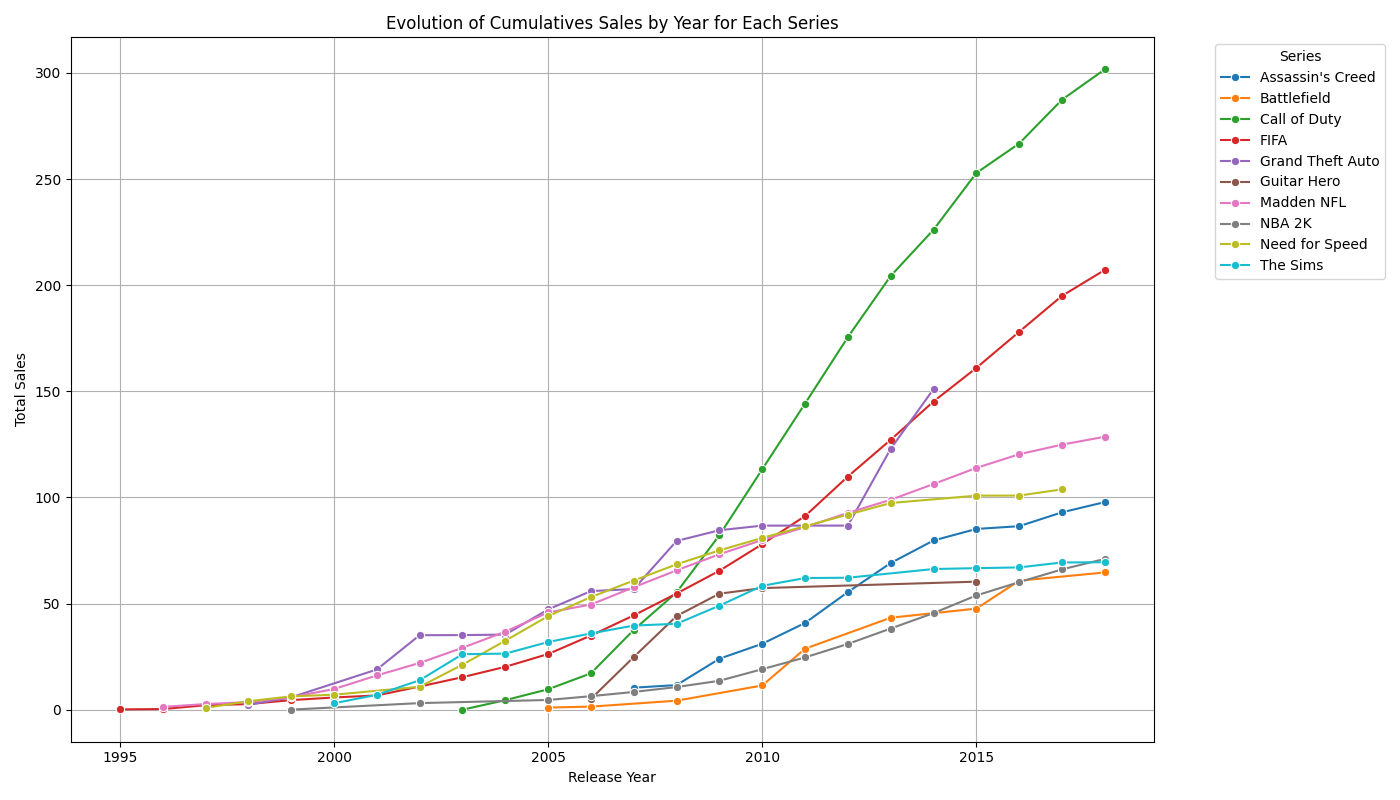
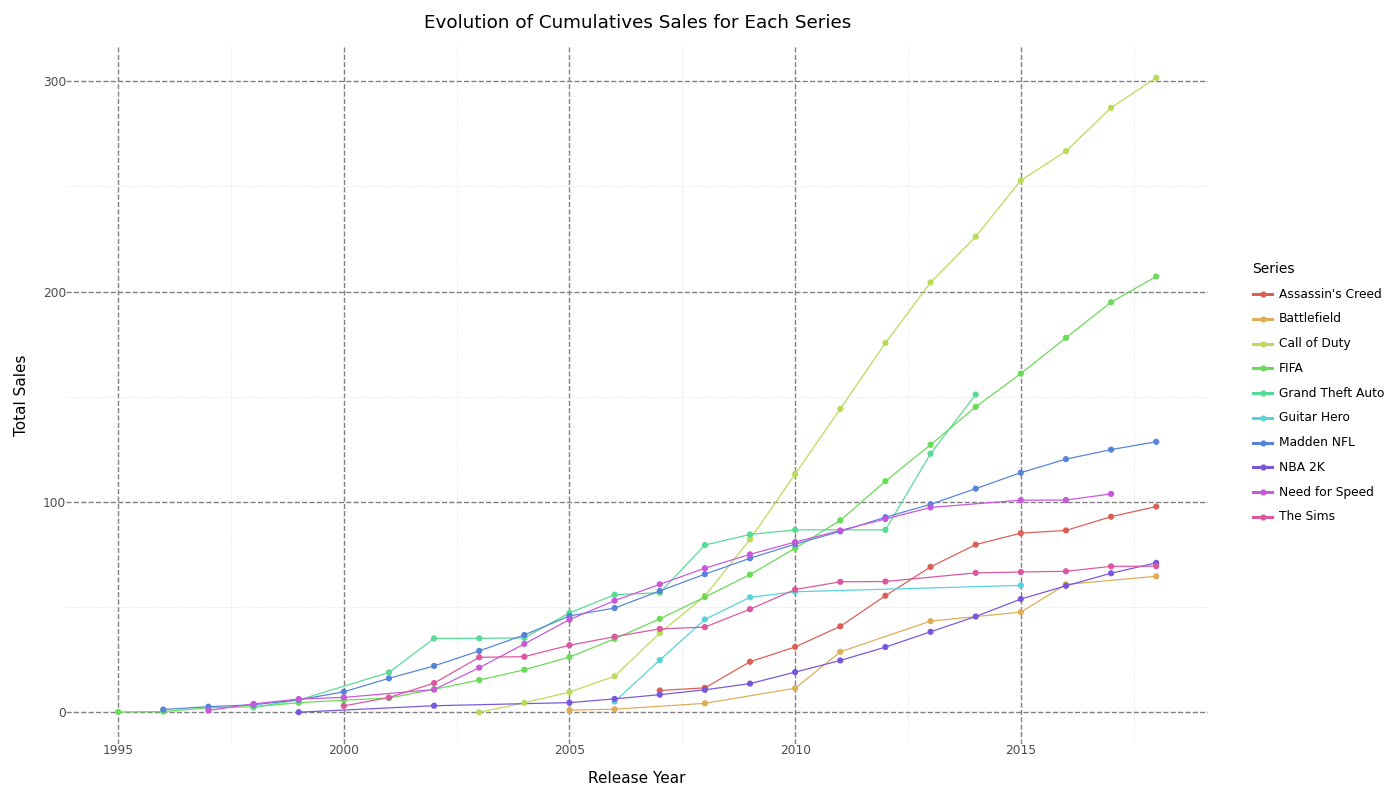
Add console charts. Change matplotlib by plotnine ;)

diff --git a/5_Series.py b/5_Series.py
@@ -1,15 +1,8 @@
-import matplotlib
-
-import matplotlib.pyplot as plt
 import pandas as pd
-import seaborn as sns
-import numpy as np
 import duckdb
+import plotnine as pn
 
 if __name__ == "__main__":
-    # Some settings
-    matplotlib.use('TkAgg')
-
     # Load data
     df = pd.read_feather('./data/working/3_Cleaned_df.output.feather')
     series_df = pd.read_feather('./data/working/3_Series_df.output.feather')
@@ -29,7 +22,7 @@ if __name__ == "__main__":
     # We have a lot of different Series: 349
     len(set(series_sales.Series))
 
-    # Check the Top 20 most saled series over time
+    # Check the Top 10 most saled series over time
     top10_query = """
     SELECT Series
     FROM series_sales
@@ -55,20 +48,23 @@ if __name__ == "__main__":
     """
     top10_series_sales_by_years = duckdb.query(grouping_query).df()
 
-    # Plot evolution of total sales by year for each series
-    plt.figure(figsize=(14, 8))
-    sns.lineplot(data=top10_series_sales_by_years, x='release_year', y='sales_by_years', hue='Series', marker='o')
-
-    # Customize the plot
-    plt.title('Evolution of Total Sales by Year for Each Series')
-    plt.xlabel('Release Year')
-    plt.ylabel('Total Sales')
-    plt.grid(True)
-    plt.legend(title='Series', bbox_to_anchor=(1.05, 1), loc='upper left')
-    plt.tight_layout()
-
-    # Show the plot
-    plt.savefig("./fig/16_Top10_TotalSales_by_year_by_series")
+    # # Plot evolution of total sales by year for each series
+    (pn.ggplot(top10_series_sales_by_years, pn.aes(x='release_year', y='sales_by_years', color='Series'))
+     + pn.geom_line()
+     + pn.geom_point()
+     + pn.labs(title='Evolution of Total Sales by Year for Each Series',
+               x='Release Year',
+               y='Total Sales')
+     + pn.theme_minimal()
+     + pn.theme(figure_size=(14, 8),
+                legend_position='right',
+                legend_title=pn.element_text(size=10),
+                legend_box_margin=0.1,
+                panel_grid_major=pn.element_line(color='gray', linetype='dashed'),
+                panel_grid_minor=pn.element_line(color='lightgray', linetype='dotted'),
+                panel_background=pn.element_rect(color='white'))
+     + pn.guides(color=pn.guide_legend(title='Series'))
+     ).save("./fig/16_Top10_TotalSales_by_year_by_series.png")
 
     # Not very informative, we will check the cumulatives sales over time !
     top10_series_sales_by_years['cumulative_sales'] = (
@@ -76,19 +72,88 @@ if __name__ == "__main__":
         .groupby('Series')['sales_by_years']
         .cumsum()
     )
-    # Plot evolution of cumulative sales by year for each series
-    plt.figure(figsize=(14, 8))
-    sns.lineplot(data=top10_series_sales_by_years, x='release_year', y='cumulative_sales', hue='Series', marker='o')
-
-    # Customize the plot
-    plt.title('Evolution of Cumulatives Sales by Year for Each Series')
-    plt.xlabel('Release Year')
-    plt.ylabel('Total Sales')
-    plt.grid(True)
-    plt.legend(title='Series', bbox_to_anchor=(1.05, 1), loc='upper left')
-    plt.tight_layout()
-
-    # Show the plot
-    plt.savefig("./fig/16_Top10_CumulativeSales_by_year_by_series")
+    (pn.ggplot(top10_series_sales_by_years, pn.aes(x='release_year', y='cumulative_sales', color='Series'))
+     + pn.geom_line()
+     + pn.geom_point()
+     + pn.labs(title='Evolution of Cumulatives Sales for Each Series',
+               x='Release Year',
+               y='Total Sales')
+     + pn.theme_minimal()
+     + pn.theme(figure_size=(14, 8),
+                legend_position='right',
+                legend_title=pn.element_text(size=10),
+                legend_box_margin=0.1,
+                panel_grid_major=pn.element_line(color='gray', linetype='dashed'),
+                panel_grid_minor=pn.element_line(color='lightgray', linetype='dotted'),
+                panel_background=pn.element_rect(color='white'))
+     + pn.guides(color=pn.guide_legend(title='Series'))
+     ).save("./fig/16_Top10_CumulativeSales_by_year_by_series.png")
 
     # We can see now that Call of Duty is clearly the most selled series over years !
+    # This approach could be very informative for another kind of metrics likes Console:
+
+    top10_query = """
+    SELECT console
+    FROM df
+    GROUP BY console
+    ORDER BY SUM(total_sales) DESC
+    LIMIT 10
+    """
+    top10_console = duckdb.query(top10_query)
+
+    filtering_query = """
+    SELECT *
+    FROM top10_console
+    INNER JOIN df
+    USING (console)
+    """
+    top10_console_sales = duckdb.query(filtering_query)
+
+    grouping_query = """
+    SELECT console, release_year, SUM(total_sales) AS sales_by_years
+    FROM top10_console_sales
+    GROUP BY console, release_year
+    ORDER BY console, release_year
+    """
+    top10_console_sales_by_years = duckdb.query(grouping_query).df()
+
+    # # Plot evolution of total sales by year for each series
+    (pn.ggplot(top10_console_sales_by_years, pn.aes(x='release_year', y='sales_by_years', color='console'))
+     + pn.geom_line()
+     + pn.geom_point()
+     + pn.labs(title='Evolution of Total Sales by Year for Each Console',
+               x='Release Year',
+               y='Total Sales')
+     + pn.theme_minimal()
+     + pn.theme(figure_size=(14, 8),
+                legend_position='right',
+                legend_title=pn.element_text(size=10),
+                legend_box_margin=0.1,
+                panel_grid_major=pn.element_line(color='gray', linetype='dashed'),
+                panel_grid_minor=pn.element_line(color='lightgray', linetype='dotted'),
+                panel_background=pn.element_rect(color='white'))
+     + pn.guides(color=pn.guide_legend(title='Console'))
+     ).save("./fig/17_Top10_TotalSales_by_year_by_console.png")
+
+    # Not very informative, we will check the cumulatives sales over time !
+    top10_console_sales_by_years['cumulative_sales'] = (
+        top10_console_sales_by_years
+        .groupby('console')['sales_by_years']
+        .cumsum()
+    )
+    (pn.ggplot(top10_console_sales_by_years, pn.aes(x='release_year', y='cumulative_sales', color='console'))
+     + pn.geom_line()
+     + pn.geom_point()
+     + pn.labs(title='Evolution of Cumulatives Sales for Each Series',
+               x='Release Year',
+               y='Total Sales')
+     + pn.theme_minimal()
+     + pn.theme(figure_size=(14, 8),
+                legend_position='right',
+                legend_title=pn.element_text(size=10),
+                legend_box_margin=0.1,
+                panel_grid_major=pn.element_line(color='gray', linetype='dashed'),
+                panel_grid_minor=pn.element_line(color='lightgray', linetype='dotted'),
+                panel_background=pn.element_rect(color='white'))
+     + pn.guides(color=pn.guide_legend(title='Console'))
+     ).save("./fig/17_Top10_CumulativeSales_by_year_by_console.png")
